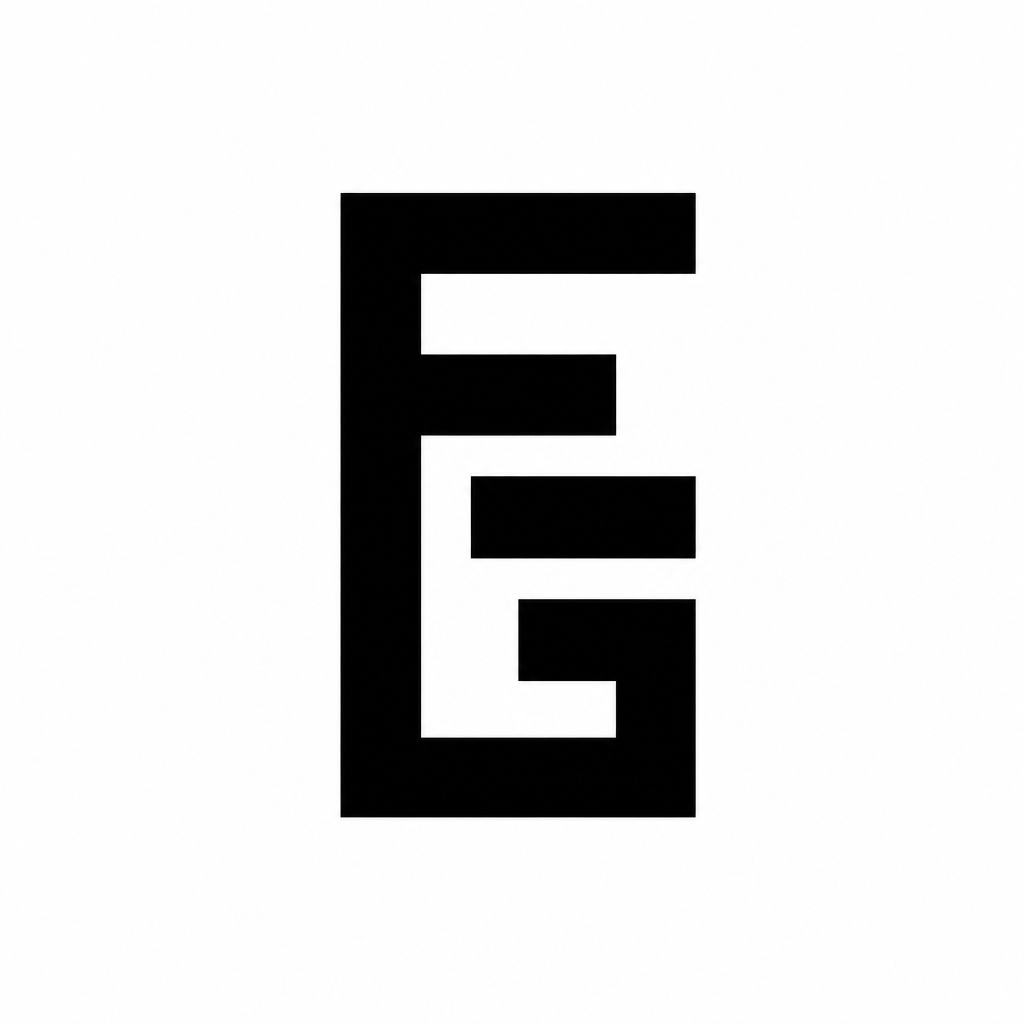
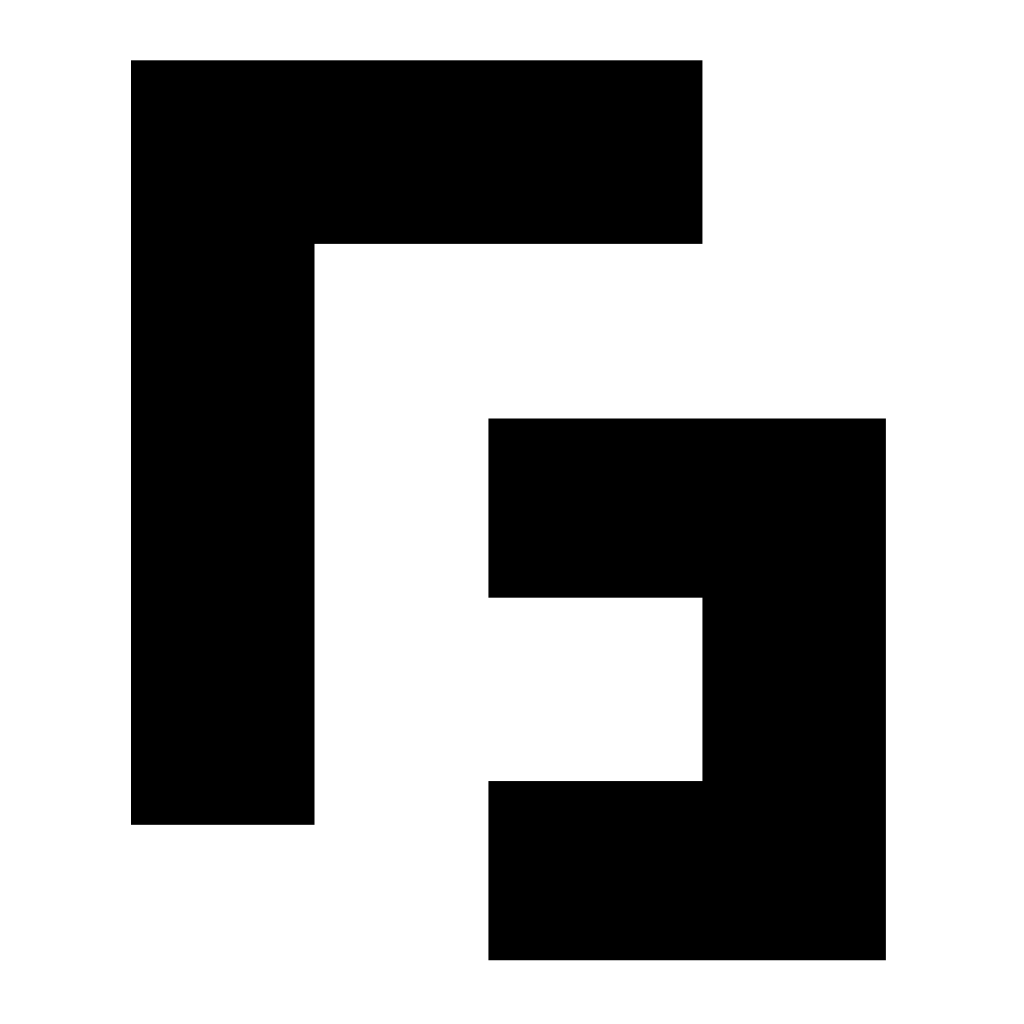
Changes

diff --git a/.lovable/plan.md b/.lovable/plan.md
@@ -1,45 +1,12 @@
-# Fix Android Launcher Icon Rejection
+# Swap Android Launcher Icon to Uploaded FG Mark
 
-## What Google flagged
-The Play Console screenshot shows two different icons for your app:
-- **App icon (Store listing)** — the black "FG" Familial mark ✅
-- **Launcher icon (installed app)** — the default blue Capacitor "X" on a white square ❌
+Replace the AI-generated FG logo with the official one you just uploaded.
 
-Google rejects this because the icon installed on the user's phone doesn't match the brand icon shown on the Play Store. Right now, your Android build ships the stock Capacitor placeholder because we never replaced the files in `android/app/src/main/res/mipmap-*/`.
+## Steps
+1. Copy `user-uploads://App_Icon_-_Familial.png` → `resources/icon.png` (1024×1024 master, white background — used for the legacy square launcher icon).
+2. Copy the same file → `resources/icon-foreground.png` (the mark already has ~12% padding; Android's adaptive mask trims ~25%, so I'll also generate a padded version to keep the FG fully visible inside the circle/squircle mask).
+3. Create `resources/icon-foreground-padded.png` by compositing the uploaded mark at ~70% scale onto a transparent 1024×1024 canvas (Python/PIL) so it survives the adaptive-icon safe zone.
+4. No code, script, or version changes — `scripts/android-post-sync.sh` already runs `@capacitor/assets generate --android` and reads from `resources/`.
 
-## Root cause
-The `android/` folder is generated locally by `npx cap add android` and is not committed to this repo. When Capacitor scaffolds it, it drops in default `ic_launcher.png` / `ic_launcher_round.png` / `ic_launcher_foreground.png` placeholders across five density buckets (mdpi → xxxhdpi). Nothing in `scripts/android-post-sync.sh` overwrites them, so every `cap sync` keeps the placeholder.
-
-## Plan
-
-1. **Add a branded master icon** at `resources/icon.png` (1024×1024, the black "FG" mark on a warm cream background so it reads on both dark and light home screens — matching your Play Store listing).
-2. **Add an adaptive-icon foreground** at `resources/icon-foreground.png` (1024×1024, transparent background, FG mark centered with ~25% safe-area padding so Android's mask doesn't clip it).
-3. **Install `@capacitor/assets`** as a dev dependency. This is the official Capacitor tool that generates every required density (mdpi/hdpi/xhdpi/xxhdpi/xxxhdpi) plus adaptive icon XML in one command.
-4. **Extend `scripts/android-post-sync.sh`** to:
-   - Run `npx @capacitor/assets generate --android` after `cap sync`.
-   - Write `android/app/src/main/res/values/ic_launcher_background.xml` with the brand background color so adaptive icons render correctly on Android 8+.
-5. **Update `scripts/pull-updates.sh`** flow notes so the regeneration happens automatically on every build.
-6. **Bump `versionCode`/`versionName`** via the existing `bump-android-version.mjs` so you can upload a fresh AAB to Play Console.
-
-## Technical details
-
-- `@capacitor/assets generate --android` reads `resources/icon.png` (legacy square icon) and `resources/icon-foreground.png` + a background color/image to produce:
-  - `mipmap-*/ic_launcher.png`
-  - `mipmap-*/ic_launcher_round.png`
-  - `mipmap-anydpi-v26/ic_launcher.xml` (adaptive)
-  - `mipmap-anydpi-v26/ic_launcher_round.xml`
-  - `mipmap-*/ic_launcher_foreground.png`
-- We'll add the resource files to the **post-sync script** rather than committing the generated PNGs, because `android/` itself isn't in the repo on your local machine until you run `npx cap add android`.
-
-## What you'll do after I ship this
-1. `bash scripts/pull-updates.sh` (pulls + installs + builds + cap sync — the post-sync step regenerates the icons).
-2. Open Android Studio → Build → Generate Signed App Bundle.
-3. Upload the new AAB to Play Console and resubmit. The launcher icon will now be the Familial FG mark.
-
-## One question before I build
-The Play Store icon is the **black FG mark on transparent/white**. Do you want the launcher icon to be:
-- **(A)** Black FG mark on a **cream/warm off-white** square (matches your in-app brand palette, looks premium on both light and dark home screens), **OR**
-- **(B)** White FG mark on a **solid black** square (max contrast, more "app-like"), **OR**
-- **(C)** Black FG mark on **pure white** (exact match to the Play Store listing tile)?
-
-I'll generate the master icon accordingly and wire up the pipeline.
+## What you do after
+Run `bash scripts/pull-updates.sh` on your Mac, rebuild the AAB in Android Studio, and resubmit. The launcher will be your uploaded FG mark on a white background.
